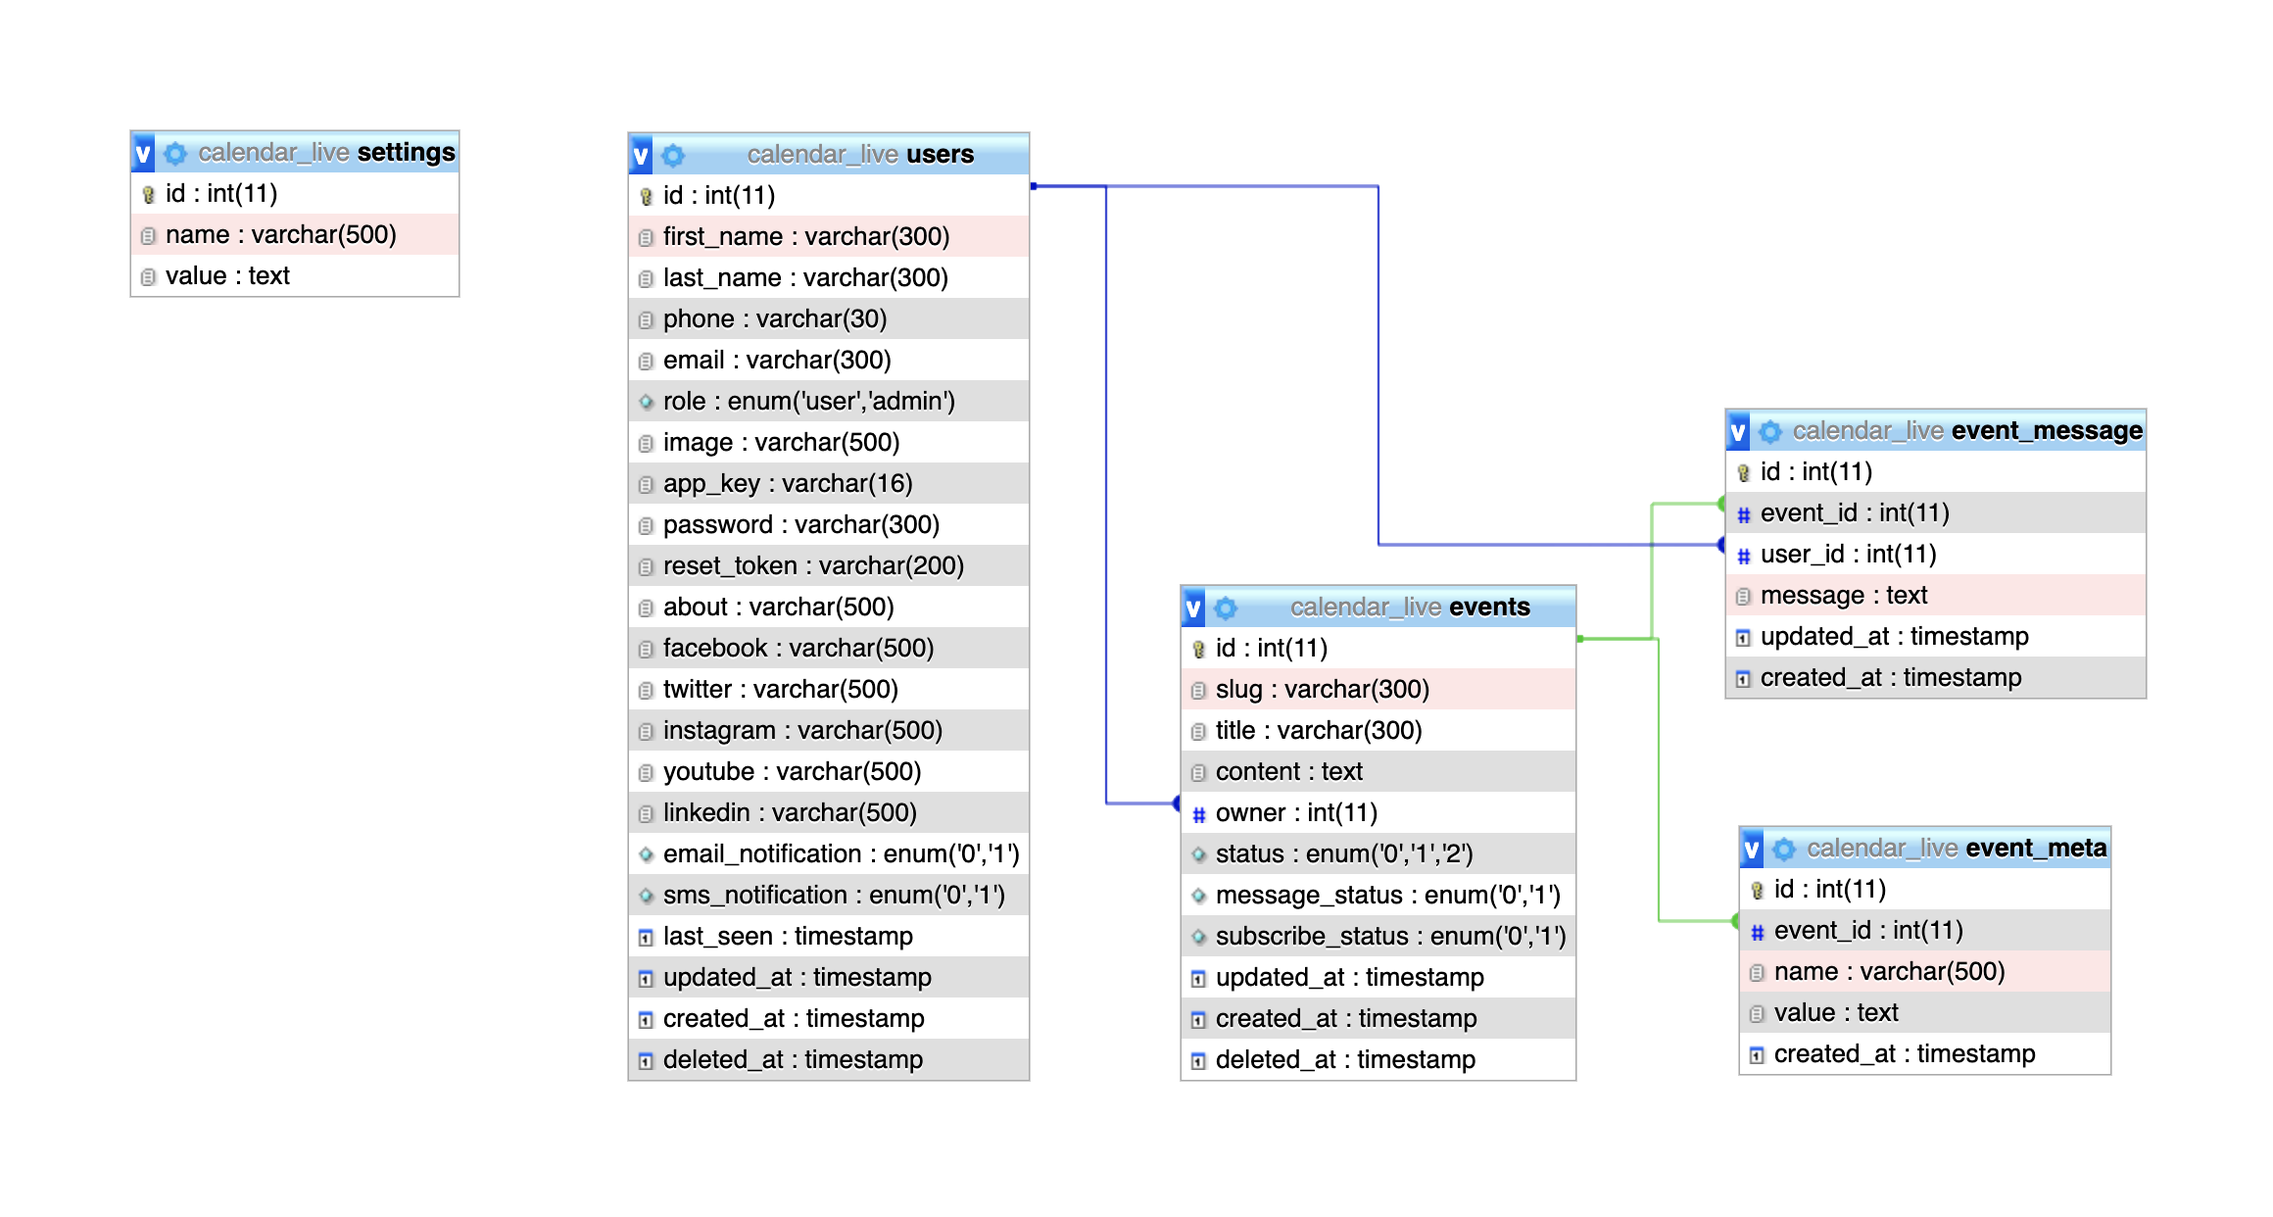
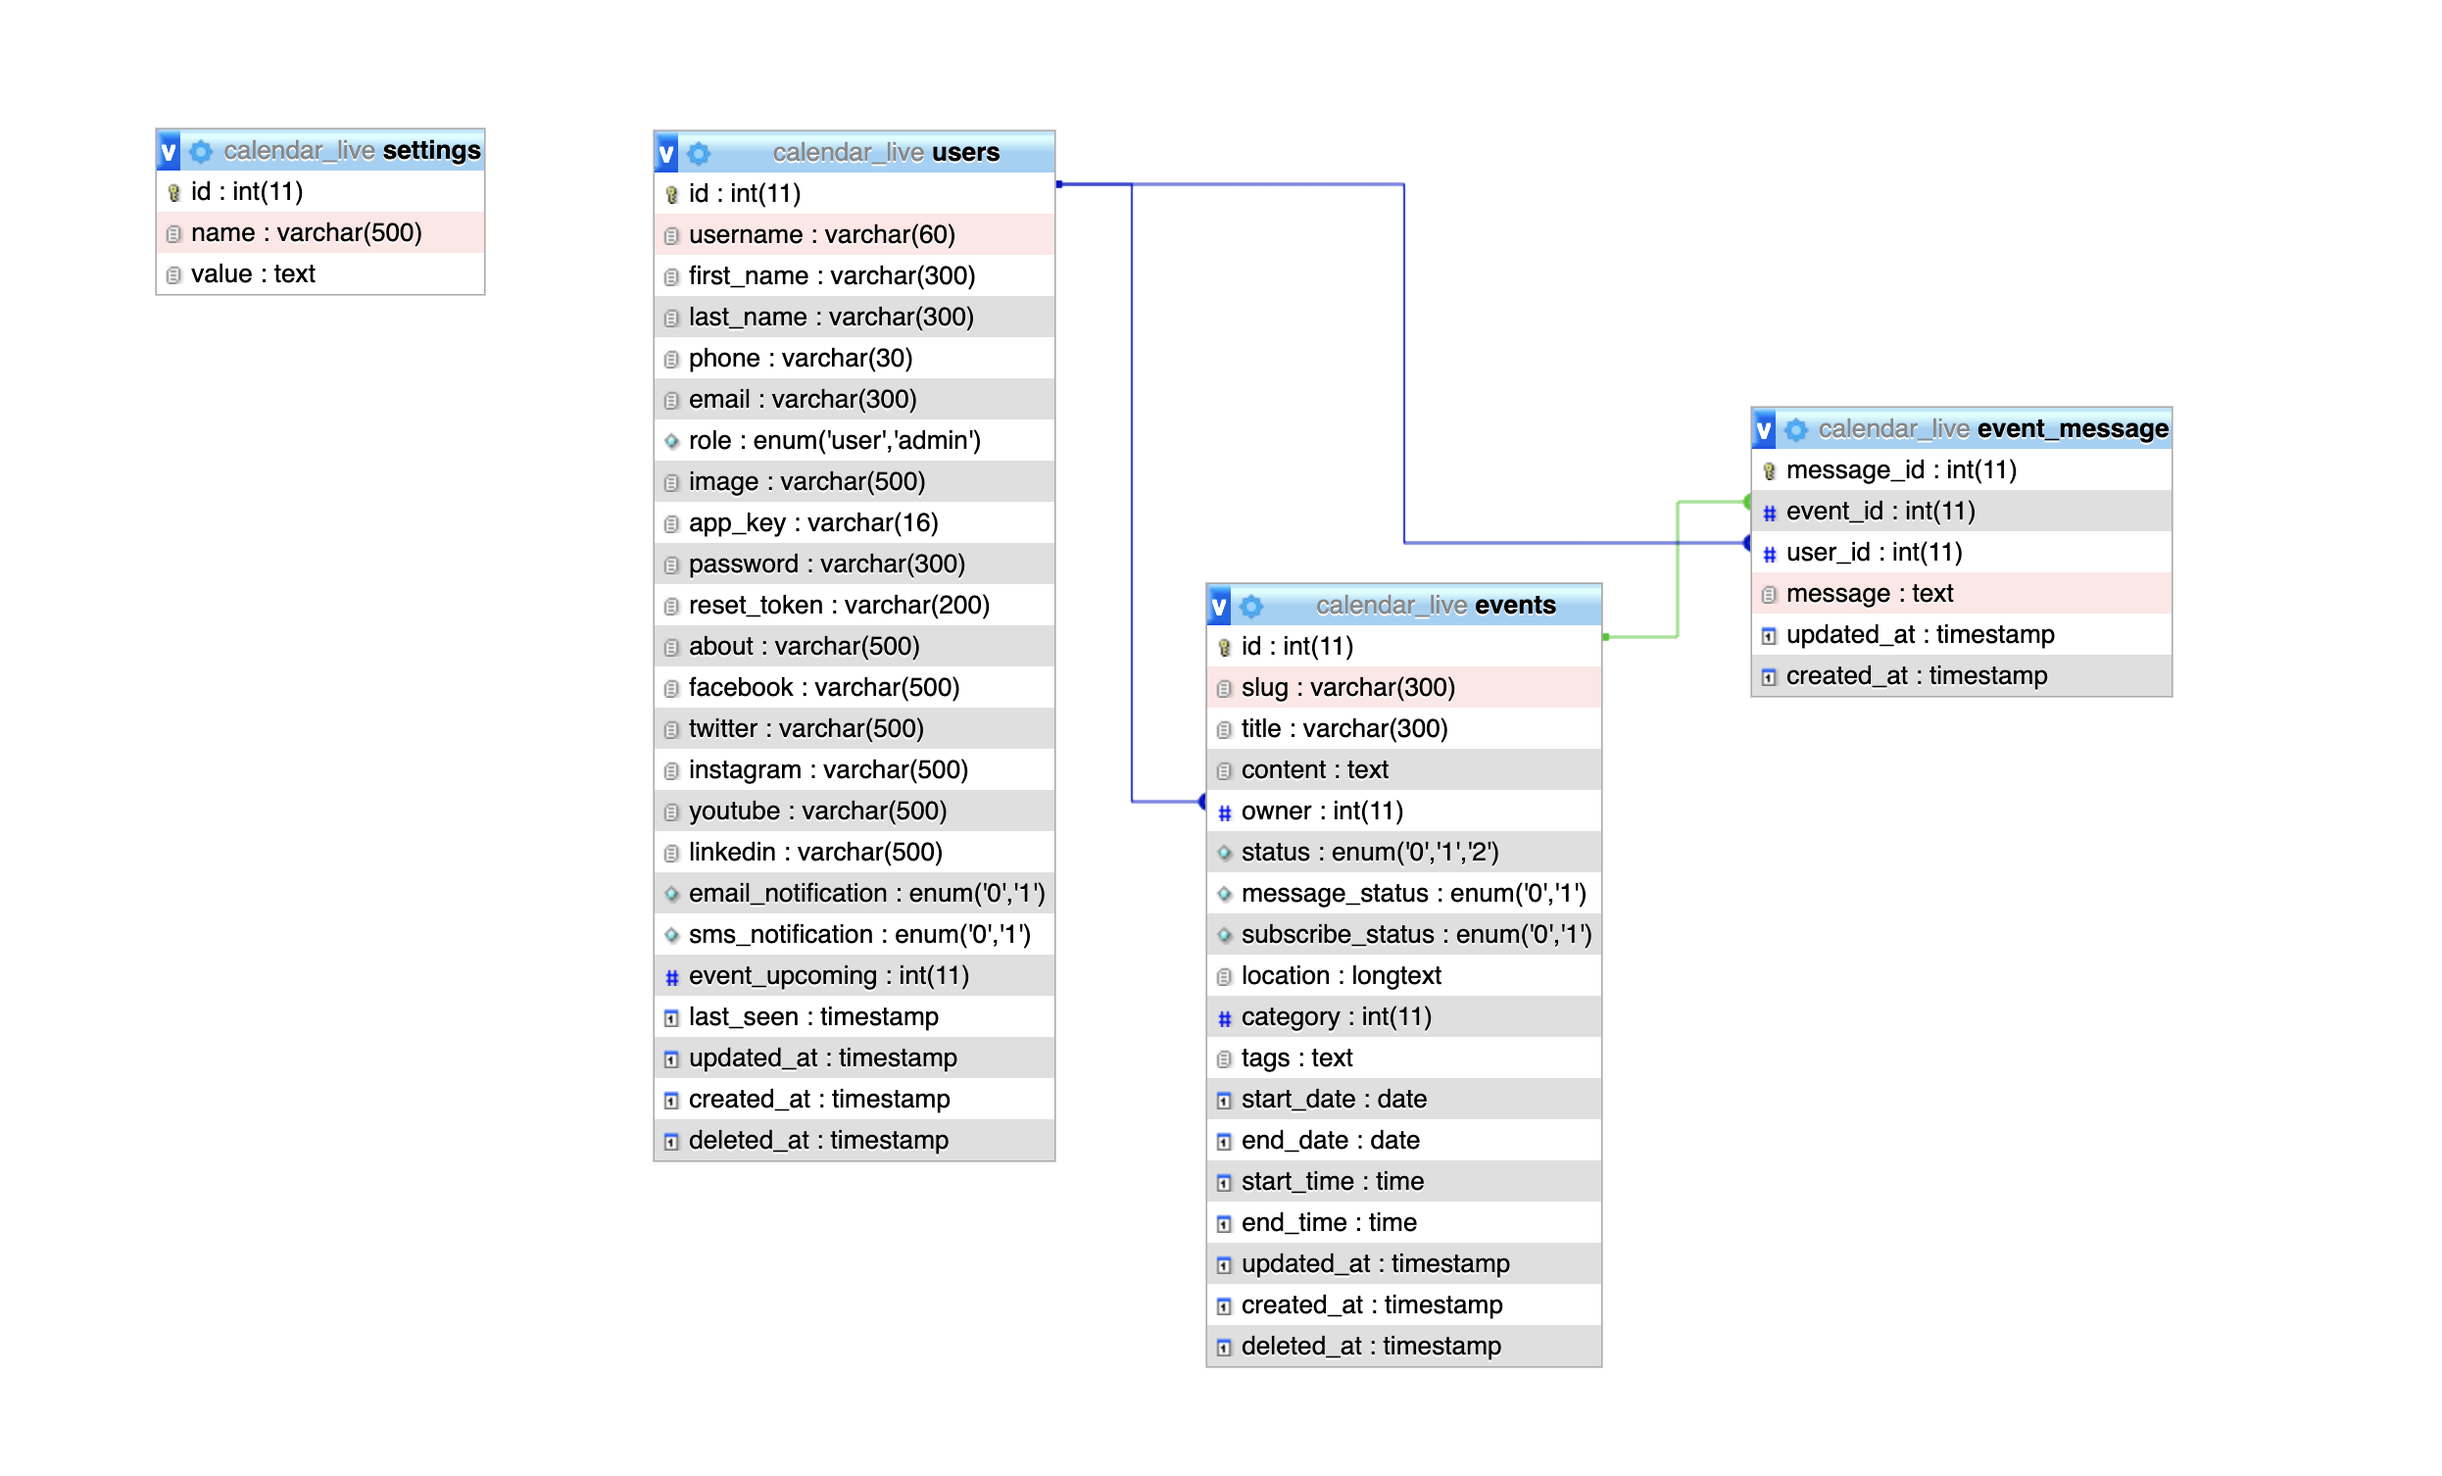
EventMeta kaldırıldı, events.location ile json olarak birleştirildi. Username özelliği eklendi

Changed region(s): [[0.2483, 0.0612, 0.9621, 0.9485], [0.7448, 0.6731, 0.931, 0.8873], [0.031, 0.0612, 0.2172, 0.2448]]

diff --git a/README.md b/README.md
@@ -23,7 +23,7 @@ Etkinliklerinizi herkese açık paylaşarak, etkinliğe özel oluşturulan link 
 
 ## Demo
 
-[mycalendar.live](https://mycalendar.live){:target="_blank"}
+[mycalendar.live](https://mycalendar.live)
 - Email : (eklenecek)
 - Şifre : (eklenecek)
 
@@ -33,7 +33,7 @@ Etkinliklerinizi herkese açık paylaşarak, etkinliğe özel oluşturulan link 
 
 ## Sunucu Gereksinimleri
 
-Aşağıdaki uzantıların yüklü olduğu PHP 7.3 veya üstü sürüm gereklidir:
+Aşağıdaki uzantıların yüklü olduğu PHP 7.3.1 veya üstü sürüm gereklidir:
 
 - [intl](http://php.net/manual/en/intl.requirements.php)
 - [libcurl](http://php.net/manual/en/curl.requirements.php) HTTP \ CURLRequest kitaplığını kullanmayı planlıyorsanız
